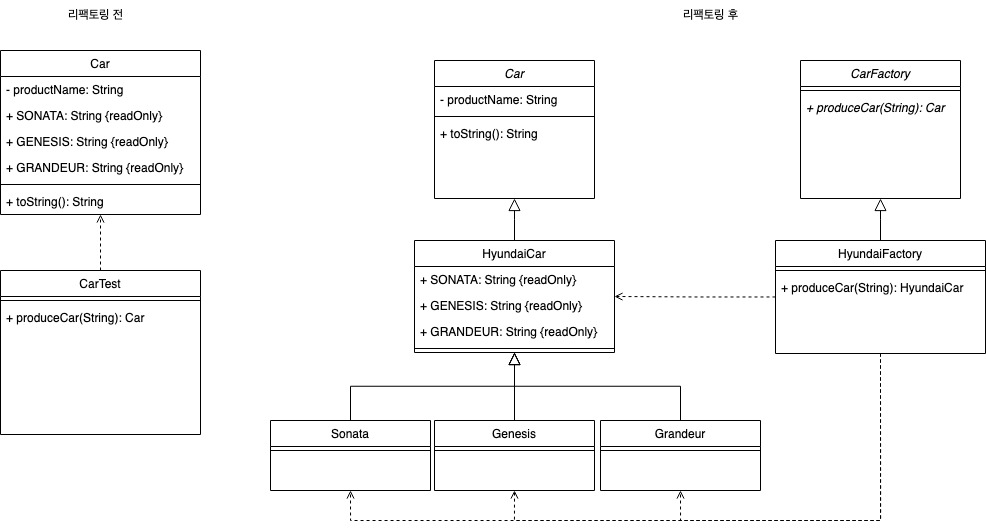
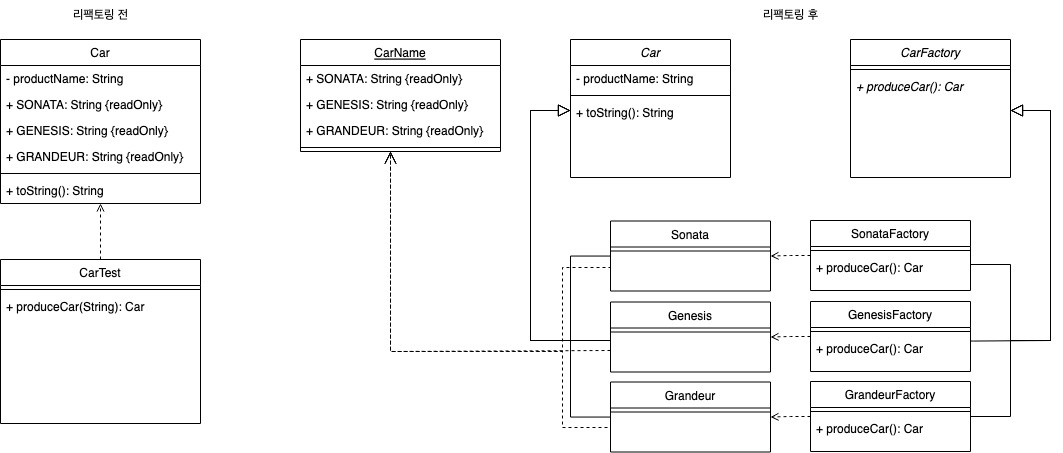
FIX: Factory Method pattern 과제 해결 코드 수정
구현 객체와 구현 Factory 객체가 1:1 대응되도록 수정
과제 목표인 if else문 대신 상속으로 해결에 초점을 맞춤

diff --git a/designPatterns/factoryMethodPattern/example/car/_Main.java b/designPatterns/factoryMethodPattern/example/car/_Main.java
@@ -3,9 +3,11 @@ package factoryMethodPattern.example.car;
 public class _Main {
 
     public static void main(String[] args) {
-        CarFactory factory = new HyundaiFactory();
-        Car car = factory.produceCar("Sonata");
+        
+        CarFactory factory = new SonataFactory();
+        // Sonata 대신 Genesis를 생산하게 되면 factory만 수정하면 됨
 
+        Car car = factory.produceCar();
         System.out.println(car);
     }
 

diff --git a/designPatterns/factoryMethodPattern/example/car/CarName.java b/designPatterns/factoryMethodPattern/example/car/CarName.java
@@ -1,7 +1,6 @@
 package factoryMethodPattern.example.car;
 
-public class HyundaiCar extends Car {
-    
+public final class CarName {    
     public static final String SONATA = "Sonata";
     public static final String GRANDEUR = "Grandeur";
     public static final String GENESIS = "Genesis";

diff --git a/designPatterns/factoryMethodPattern/example/car/Grandeur.java b/designPatterns/factoryMethodPattern/example/car/Grandeur.java
@@ -1,9 +1,8 @@
 package factoryMethodPattern.example.car;
 
-public class Grandeur extends HyundaiCar {
+public class Grandeur extends Car {
 
     public Grandeur() {
-        this.productName = HyundaiCar.GRANDEUR;
+        productName = CarName.GRANDEUR;
     }
-    
 }

diff --git a/designPatterns/factoryMethodPattern/example/car/Genesis.java b/designPatterns/factoryMethodPattern/example/car/Genesis.java
@@ -1,9 +1,8 @@
 package factoryMethodPattern.example.car;
 
-public class Genesis extends HyundaiCar {
+public class Genesis extends Car {
 
     public Genesis() {
-        this.productName = HyundaiCar.GENESIS;
+        productName = CarName.GENESIS;
     }
-    
 }

diff --git a/designPatterns/factoryMethodPattern/example/car/Sonata.java b/designPatterns/factoryMethodPattern/example/car/Sonata.java
@@ -1,8 +1,8 @@
 package factoryMethodPattern.example.car;
 
-public class Sonata extends HyundaiCar {
+public class Sonata extends Car {
 
     public Sonata() {
-        this.productName = HyundaiCar.SONATA;
+        productName = CarName.SONATA;
     }
 }

diff --git a/designPatterns/factoryMethodPattern/example/car/Car.java b/designPatterns/factoryMethodPattern/example/car/Car.java
@@ -2,7 +2,7 @@ package factoryMethodPattern.example.car;
 
 public abstract class Car {
 
-    String productName;
+    protected String productName;
     
     public String toString() {
         return productName;

diff --git a/designPatterns/factoryMethodPattern/example/car/CarFactory.java b/designPatterns/factoryMethodPattern/example/car/CarFactory.java
@@ -2,6 +2,5 @@ package factoryMethodPattern.example.car;
 
 public abstract class CarFactory {
     
-    // factory method
-    public abstract Car produceCar(String name);
+    public abstract Car produceCar();
 }

diff --git a/designPatterns/factoryMethodPattern/example/car/GrandeurFactory.java b/designPatterns/factoryMethodPattern/example/car/GrandeurFactory.java
@@ -1,0 +1,10 @@
+package factoryMethodPattern.example.car;
+
+public class GrandeurFactory extends CarFactory {
+
+    @Override
+    public Car produceCar() {
+        return new Grandeur();
+    }
+    
+}

diff --git a/designPatterns/factoryMethodPattern/example/car/GenesisFactory.java b/designPatterns/factoryMethodPattern/example/car/GenesisFactory.java
@@ -1,0 +1,10 @@
+package factoryMethodPattern.example.car;
+
+public class GenesisFactory extends CarFactory {
+
+    @Override
+    public Car produceCar() {
+        return new Genesis();
+    }
+    
+}

diff --git a/designPatterns/factoryMethodPattern/example/car/SonataFactory.java b/designPatterns/factoryMethodPattern/example/car/SonataFactory.java
@@ -1,0 +1,9 @@
+package factoryMethodPattern.example.car;
+
+public class SonataFactory extends CarFactory {
+
+    @Override
+    public Car produceCar() {
+        return new Sonata();
+    }    
+}

diff --git a/designPatterns/factoryMethodPattern/example/README.md b/designPatterns/factoryMethodPattern/example/README.md
@@ -45,13 +45,11 @@ public class CarTest {
 
 ![Car 클래스 다이어그램](https://github.com/notusing11/java_design_pattern_study/blob/main/Design%20Patterns/factoryMethodPattern/example/Car.jpg?raw=true)
 
-- 기존 코드는 새로운 차를 추가할 경우 produceCar의 if else문에 추가해야 함 -> Factory 클래스
-- 새로운 차 생산업체 및 차종을 추가해도 기존 차 생성에 영향을 미치지 않도록 분리
+- if else문 대신 상속으로 해결
+
 
 ### 과제에서 중점적으로 고민했던 부분
 
 **public static final 로 선언된 상수들의 위치**
 
-- 추상클래스 Car에 구체적인 정보를 담은 상수를 두는게 적절하지 않아보임
-- HyundaiCar 클래스를 추가해서 관련된 클래스를 묶는 효과
-- HyundaiFactory에서는 hyundaiCar만 만들어서 혹시라도 다른 브랜드 차종이 섞이지 않도록
+- 추상클래스 Car에 구체적인 정보를 담은 상수를 두는게 적절하지 않아보임 -> CarName으로 분리
